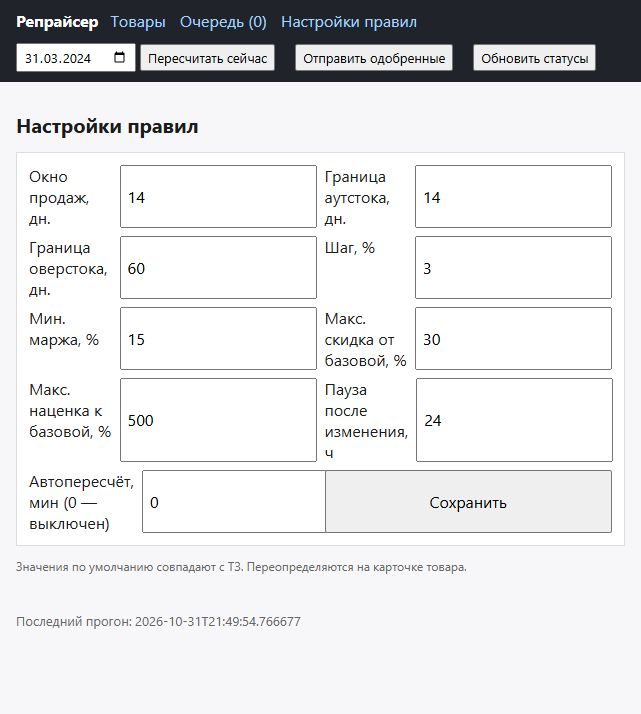
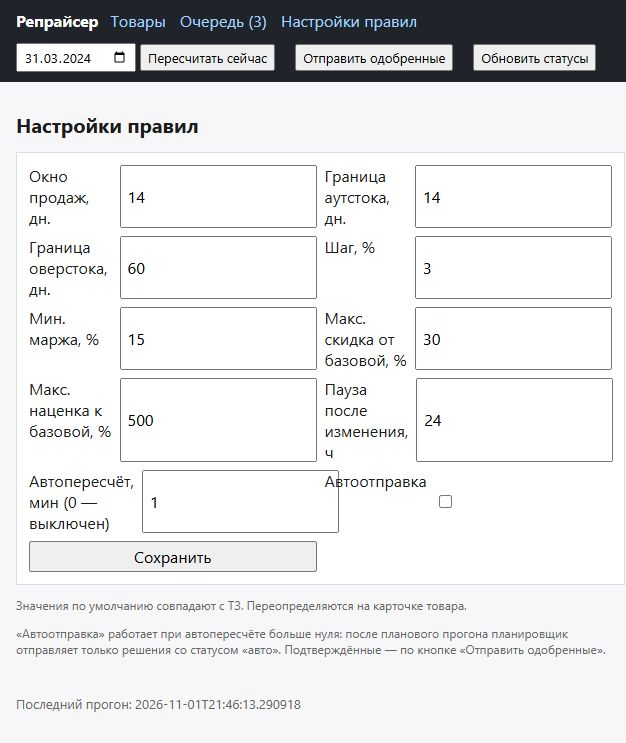
Автоотправка: планировщик отправляет только авто-решения
- галочка «Автоотправка» в настройках, по умолчанию выключена
- scheduler.tick после планового прогона вызывает send_auto
- send_auto отправляет только статус auto; подтверждённые — по кнопке
- тесты: настройка, только авто, выключенная галочка, веб-форма
- обновлены README, PLAN, TESTING и скриншот настроек

diff --git a/src/repricer/web/templates/settings.html b/src/repricer/web/templates/settings.html
@@ -11,7 +11,11 @@
     <label>Макс. наценка к базовой, % <input name="max_markup_pct" value="{{ rules.max_markup_pct }}"></label>
     <label>Пауза после изменения, ч <input name="pause_hours" value="{{ rules.pause_hours }}"></label>
     <label>Автопересчёт, мин (0 — выключен) <input name="schedule_minutes" value="{{ schedule_minutes }}"></label>
+    <label class="check">Автоотправка <input type="checkbox" name="auto_send" value="1" {% if auto_send %}checked{% endif %}></label>
     <button type="submit">Сохранить</button>
 </form>
 <p class="hint">Значения по умолчанию совпадают с ТЗ. Переопределяются на карточке товара.</p>
+<p class="hint">«Автоотправка» работает при автопересчёте больше нуля: после планового прогона
+планировщик отправляет только решения со статусом «авто». Подтверждённые — по кнопке
+«Отправить одобренные».</p>
 {% endblock %}

diff --git a/src/repricer/web/static/style.css b/src/repricer/web/static/style.css
@@ -12,6 +12,7 @@ th { background: #eef1f5; }
 form.inline { display: inline-flex; gap: 4px; align-items: center; margin-right: 8px; }
 form.rules { display: grid; grid-template-columns: repeat(2, minmax(240px, 1fr)); gap: 8px; background: #fff; padding: 12px; border: 1px solid #ddd; }
 form.rules label { display: flex; justify-content: space-between; gap: 8px; }
+form.rules label.check { justify-content: flex-start; gap: 8px; }
 input, select, button { font: inherit; padding: 3px 6px; }
 button { cursor: pointer; }
 .message { background: #fff3cd; border: 1px solid #ffe08a; padding: 8px 12px; margin: 0 16px; }

diff --git a/tests/test_scheduler.py b/tests/test_scheduler.py
@@ -58,3 +58,46 @@ def test_start_stop_is_safe_when_disabled(tmp_path, start_emulator):
     scheduler.stop()
 
     assert scheduler.interval_minutes() == 0
+
+
+def test_auto_send_setting_round_trip(tmp_path, start_emulator):
+    service, _repo = build(tmp_path, start_emulator)
+
+    assert service.auto_send_enabled() is False
+    service.set_auto_send(True)
+    assert service.auto_send_enabled() is True
+    service.set_auto_send(False)
+    assert service.auto_send_enabled() is False
+
+
+def test_auto_send_sends_only_auto(tmp_path, start_emulator):
+    service, repo = build(tmp_path, start_emulator)
+    repo.set_mode("T-DISC", "auto", at=AS_OF)
+    repo.set_mode("T-OUT", "recommend", at=AS_OF)
+    repo.set_mode("T-OVER", "recommend", at=AS_OF)
+    scheduler = Scheduler(service)
+
+    scheduler.tick()
+    service.approve()
+    service.set_auto_send(True)
+    scheduler.tick()
+
+    # Авто-решение отправлено; при нулевой задержке эмулятора оно уже применено.
+    auto_rows = repo.list_decisions(("sent", "applied"))
+    assert [row["vendor_code"] for row in auto_rows] == ["T-DISC"]
+    assert sorted(row["vendor_code"] for row in repo.list_decisions(("approved",))) == [
+        "T-OUT",
+        "T-OVER",
+    ]
+
+
+def test_auto_send_disabled_sends_nothing(tmp_path, start_emulator):
+    service, repo = build(tmp_path, start_emulator)
+    repo.set_mode("T-DISC", "auto", at=AS_OF)
+    scheduler = Scheduler(service)
+
+    scheduler.tick()
+
+    assert repo.list_decisions(("auto",))
+    assert repo.list_decisions(("sent",)) == []
+    assert repo.tasks_with_status(1) == []

diff --git a/src/repricer/app/service.py b/src/repricer/app/service.py
@@ -20,6 +20,7 @@ from .pricing import choose_price_before
 
 RULES_SETTING = "rules"
 SCHEDULE_SETTING = "schedule_minutes"
+AUTO_SEND_SETTING = "auto_send"
 
 STATUS_PENDING = "pending"
 STATUS_APPROVED = "approved"
@@ -97,6 +98,12 @@ class RepricerService:
 
     def set_schedule_minutes(self, value: int) -> None:
         self.repo.set_setting(SCHEDULE_SETTING, str(max(0, int(value))))
+
+    def auto_send_enabled(self) -> bool:
+        return self.repo.get_setting(AUTO_SEND_SETTING, "0") == "1"
+
+    def set_auto_send(self, enabled: bool) -> None:
+        self.repo.set_setting(AUTO_SEND_SETTING, "1" if enabled else "0")
 
     def effective_rules(self, vendor_code: str) -> Rules:
         product = self.repo.get_product(vendor_code)
@@ -325,6 +332,13 @@ class RepricerService:
                 for row in (self.repo.get_decision(int(i)) for i in decision_ids)
                 if row and row["status"] in (STATUS_APPROVED, STATUS_AUTO)
             ]
+        return self._send_rows(rows)
+
+    def send_auto(self) -> dict:
+        """Отправить только решения в статусе «авто» (для автоотправки планировщиком)."""
+        return self._send_rows(self.repo.list_decisions((STATUS_AUTO,)))
+
+    def _send_rows(self, rows: list[dict]) -> dict:
         if not rows:
             return {"sent": 0, "failed": 0, "message": "Нет решений к отправке"}
 

diff --git a/tests/test_pipeline.py b/tests/test_pipeline.py
@@ -139,6 +139,20 @@ def test_approved_is_not_duplicated_before_send(tmp_path, start_emulator):
     assert len(repo.list_decisions(("approved",))) == 1
 
 
+def test_send_auto_sends_only_auto(tmp_path, start_emulator):
+    service, _client, repo = build(tmp_path, start_emulator, default_goods())
+    repo.set_mode("SKU-OUT", "auto", at=AS_OF)
+    repo.set_mode("SKU-OVER", "recommend", at=AS_OF)
+    service.run(as_of=AS_OF)
+    service.approve()
+
+    result = service.send_auto()
+
+    assert result["sent"] == 1
+    assert [row["vendor_code"] for row in repo.list_decisions(("sent",))] == ["SKU-OUT"]
+    assert [row["vendor_code"] for row in repo.list_decisions(("approved",))] == ["SKU-OVER"]
+
+
 def test_approve_send_and_apply(tmp_path, start_emulator):
     service, client, repo = build(tmp_path, start_emulator, default_goods())
     repo.set_mode("SKU-OUT", "recommend", at=AS_OF)

diff --git a/tests/test_web.py b/tests/test_web.py
@@ -144,6 +144,27 @@ def test_settings_page_updates_global_rules(tmp_path, start_emulator):
     assert service.global_rules().step_pct == Decimal("5")
 
 
+def test_settings_auto_send_checkbox(tmp_path, start_emulator):
+    client, service, _repo = build(tmp_path, start_emulator)
+
+    client.post(
+        "/settings",
+        data={"sales_window_days": "14", "auto_send": "1"},
+        follow_redirects=False,
+    )
+    assert service.auto_send_enabled() is True
+    page = client.get("/settings")
+    assert "Автоотправка" in page.text
+    assert "checked" in page.text
+
+    client.post(
+        "/settings",
+        data={"sales_window_days": "14"},
+        follow_redirects=False,
+    )
+    assert service.auto_send_enabled() is False
+
+
 def test_filters_by_zone(tmp_path, start_emulator):
     client, _service, _repo = build(tmp_path, start_emulator)
 

diff --git a/src/repricer/web/main.py b/src/repricer/web/main.py
@@ -242,6 +242,7 @@ def create_app(
                 request,
                 rules=service.global_rules(),
                 schedule_minutes=service.schedule_minutes(),
+                auto_send=service.auto_send_enabled(),
             ),
         )
 
@@ -255,7 +256,13 @@ def create_app(
                 service.set_schedule_minutes(int(str(form.get("schedule_minutes"))))
             except ValueError:
                 pass
-        service.repo.append_journal("settings_changed", at=service.clock(), payload=data)
+        auto_send = form.get("auto_send") not in (None, "")
+        service.set_auto_send(auto_send)
+        service.repo.append_journal(
+            "settings_changed",
+            at=service.clock(),
+            payload={"rules": data, "auto_send": auto_send},
+        )
         return _redirect("Настройки сохранены")
 
     return app

diff --git a/src/repricer/app/scheduler.py b/src/repricer/app/scheduler.py
@@ -47,6 +47,8 @@ class Scheduler:
             return None
         try:
             result = self.service.run(as_of=self.service.clock(), trigger=trigger)
+            if self.service.auto_send_enabled():
+                self.service.send_auto()
             if self.poll:
                 self.service.poll()
             return result

diff --git a/TESTING.md b/TESTING.md
@@ -412,8 +412,16 @@ Stop-Process -Id <PID> -Force
    «Последний прогон» в подвале обновится, прогон выполнится сам. Вернуть `0`.
    Учтите: плановый прогон идёт с системной датой, поэтому на исторических продажах все товары
    попадут в «нет продаж»; для чистоты после проверки сбросьте БД.
-5. Перезапустить веб-приложение и убедиться, что сохранённые правила и интервал не потерялись
-   (хранятся в `settings` SQLite).
+5. **Автоотправка**: `T-DISC` — «авто», `T-OUT` и `T-OVER` — «рекомендация»; прогон, подтвердить
+   `T-OUT` и `T-OVER`. Включить «Автопересчёт, мин» = `1` и «Автоотправку», «Сохранить».
+   Ожидание: на следующем тике планировщик отправит **только** `T-DISC` (статус `auto`), а
+   подтверждённые останутся в статусе `approved` и без `upload_id`.
+   Проверка: у `T-DISC` в журнале «отправлено» и цена на площадке 3 522,60 ₽; `T-OUT`/`T-OVER`
+   не менялись; задача эмулятора содержит один артикул.
+   При выключенной галочке (и том же интервале) автопересчёт создаёт решения, но ничего не
+   отправляет — задача не создаётся.
+6. Перезапустить веб-приложение и убедиться, что сохранённые правила, интервал и галочка
+   «Автоотправка» не потерялись (хранятся в `settings` SQLite).
 
 ### 4.11. Ошибки и устойчивость
 
@@ -548,7 +556,7 @@ Invoke-RestMethod "http://127.0.0.1:8090/api/v2/history/goods/task?uploadID=$($t
 | Карантин | 4.7 | цена не применена, статус `quarantine` |
 | Ошибки площадки | 4.11, 4.13 | ошибка по товару не блокирует пачку |
 | Источник 1С (OData) | 4.12 | 54 товара, тот же конвейер |
-| Настройки и расписание | 4.10 | правила применяются, автопересчёт работает |
+| Настройки и расписание | 4.10 | правила применяются, автопересчёт работает, автоотправка отправляет только «авто» |
 | Дата расчёта — параметр | 4.2, 4.9 | смена даты меняет окно и зоны |
 | Демо-каталог 15–20 товаров | 3.2 | 17 товаров, все случаи |
 | Русский интерфейс, один пользователь | все разделы | подписи по-русски, без авторизации |
@@ -569,6 +577,7 @@ Invoke-RestMethod "http://127.0.0.1:8090/api/v2/history/goods/task?uploadID=$($t
 - [ ] Карантин на профиле с порогом 2%: цена не изменилась, статус `quarantine`.
 - [ ] Журнал карточки содержит всю цепочку событий.
 - [ ] Переопределения правил и настройки меняют расчёт.
+- [ ] Автоотправка отправляет только решения «авто», подтверждённые ждут кнопку.
 - [ ] Пауза видна на дате позже применения.
 - [ ] Ошибки (эмулятор недоступен, битый CSV) показываются сообщением, не 500.
 - [ ] 1С-профиль: 54 товара, прогон и отправка работают.

diff --git a/PLAN.md b/PLAN.md
@@ -90,6 +90,7 @@ repricer/
 | Статусы площадки | `1` — в обработке, `3` — обработана; карантин распознаётся по `errorCode` или тексту ошибки |
 | Пауза в историческом расчёте | учитываются только изменения, подтверждённые до даты расчёта (`resolved_at <= as_of`) |
 | Режим «Авто» | решение сразу в статусе `auto`, видно в очереди с пометкой «авто», уходит без подтверждения; до отправки его можно отклонить |
+| Автоотправка | галочка в настройках; после планового прогона планировщик отправляет только решения `auto`; `approved` остаются для кнопки «Отправить одобренные» |
 | Журнал «цена не менялась» | пишется только при смене состояния, повторные прогоны не засоряют журнал |
 | Планировщик | поток внутри веб-процесса; интервал в минутах из настроек, `0` — выключен; занятый прогон пропускается; дата расчёта планового прогона — системное время (вне ядра) |
 | Идемпотентность прогона | активные решения — `pending`, `approved`, `auto`, `sent`; совпавшая цель — пропуск, другая — замена (кроме `sent`: пока площадка не ответила, новую не создаём) |
